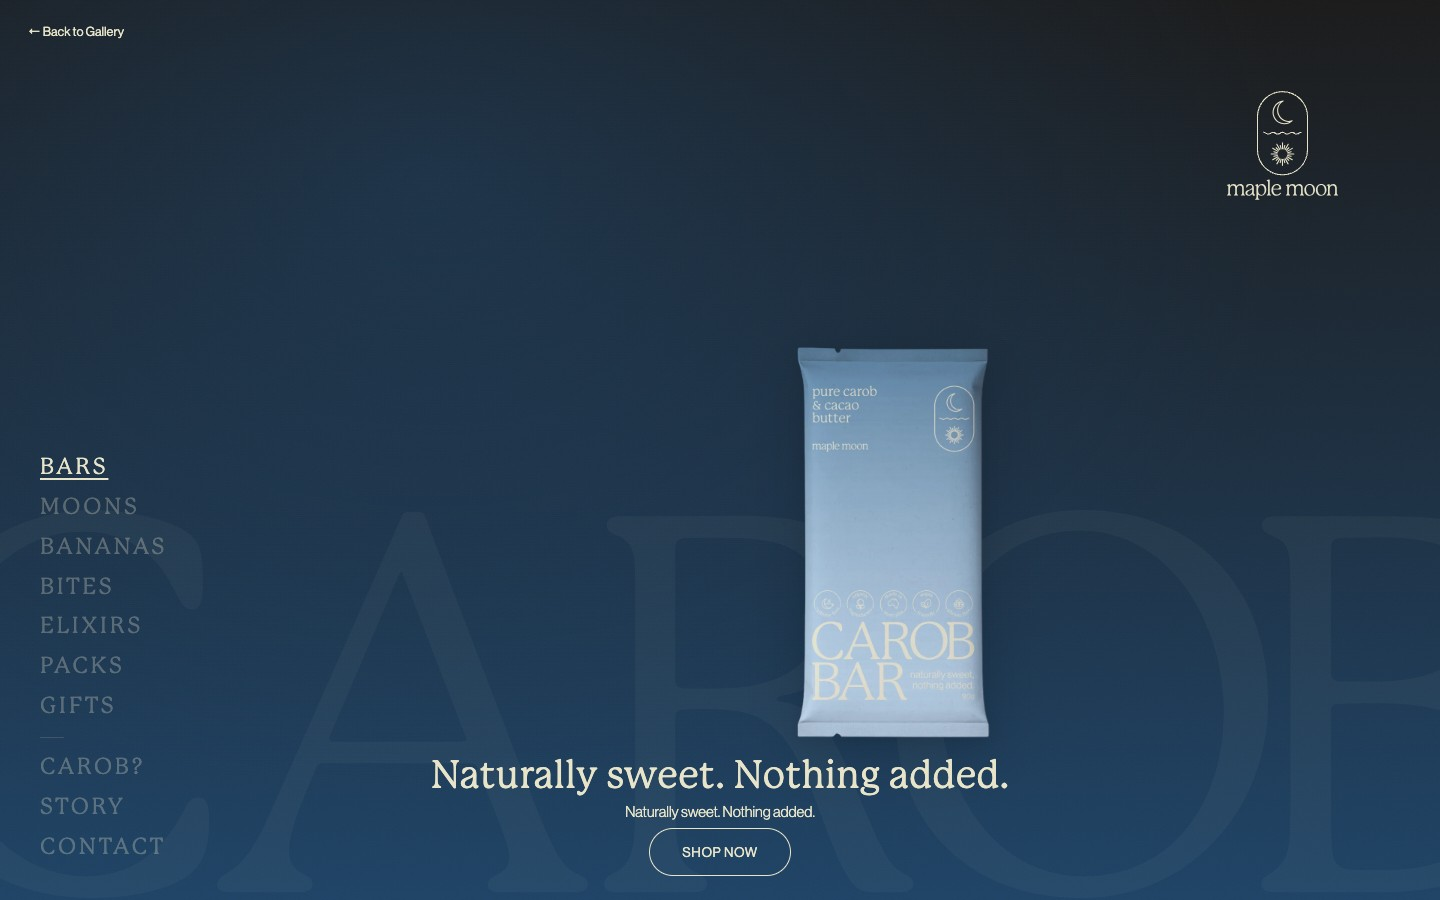
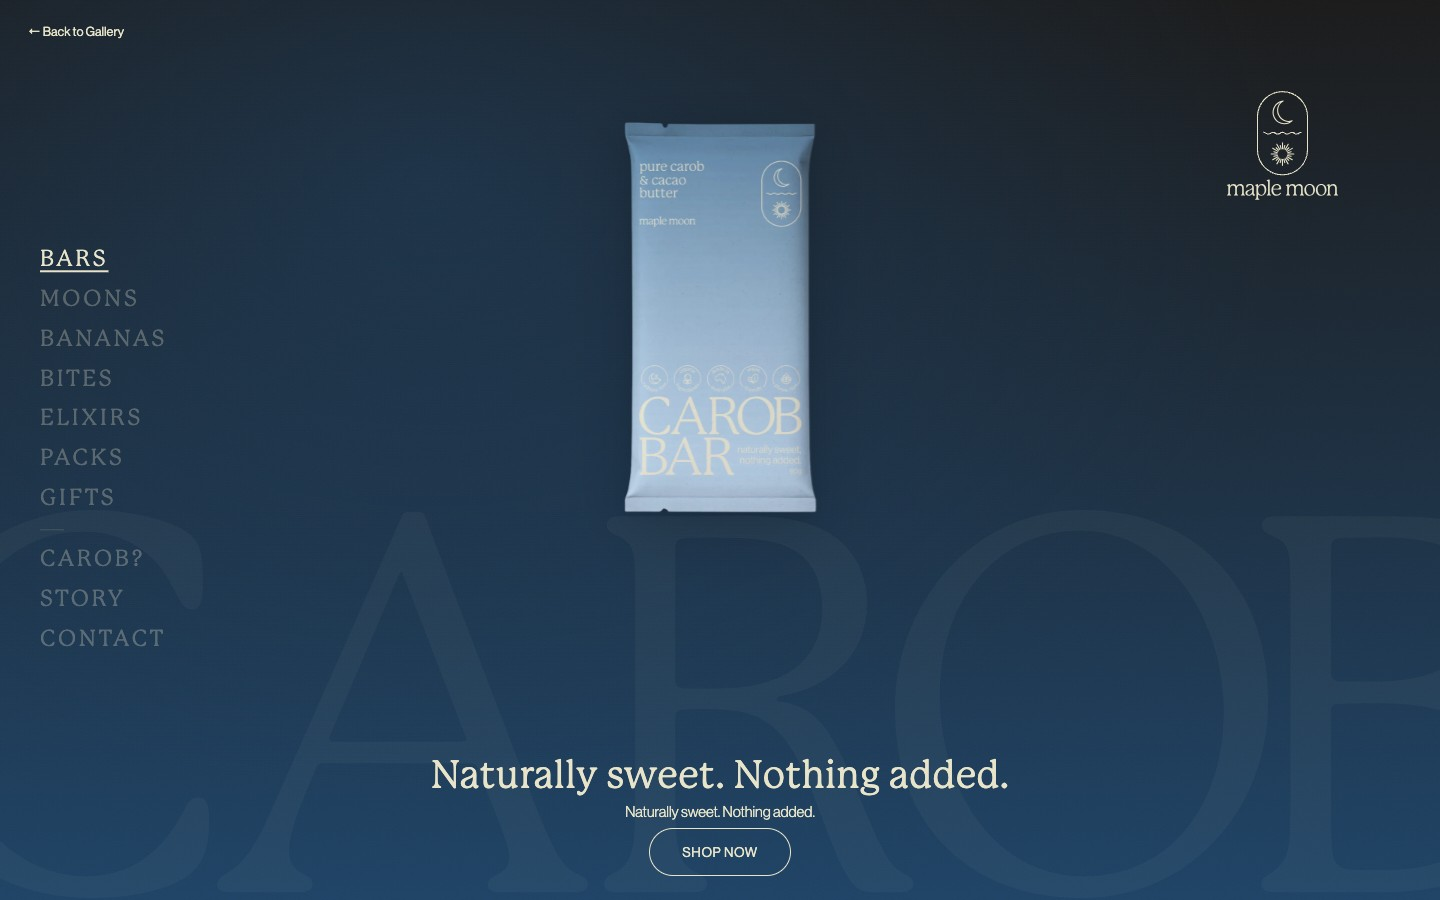
fix: V1 screenshot centering, progress counter 13
- Removed transform:none from screenshot CSS (was breaking V1 centering)
- Progress counter 14 → 13 (Ultimate Hybrid removed)

diff --git a/review/index.html b/review/index.html
@@ -672,7 +672,7 @@
 <!-- Progress -->
 <div class="progress-wrap">
   <div class="progress-track"><div class="progress-fill" id="progressFill"></div></div>
-  <span class="progress-text" id="progressText">0 / 14 rated</span>
+  <span class="progress-text" id="progressText">0 / 13 rated</span>
 </div>
 
 <!-- Header -->
